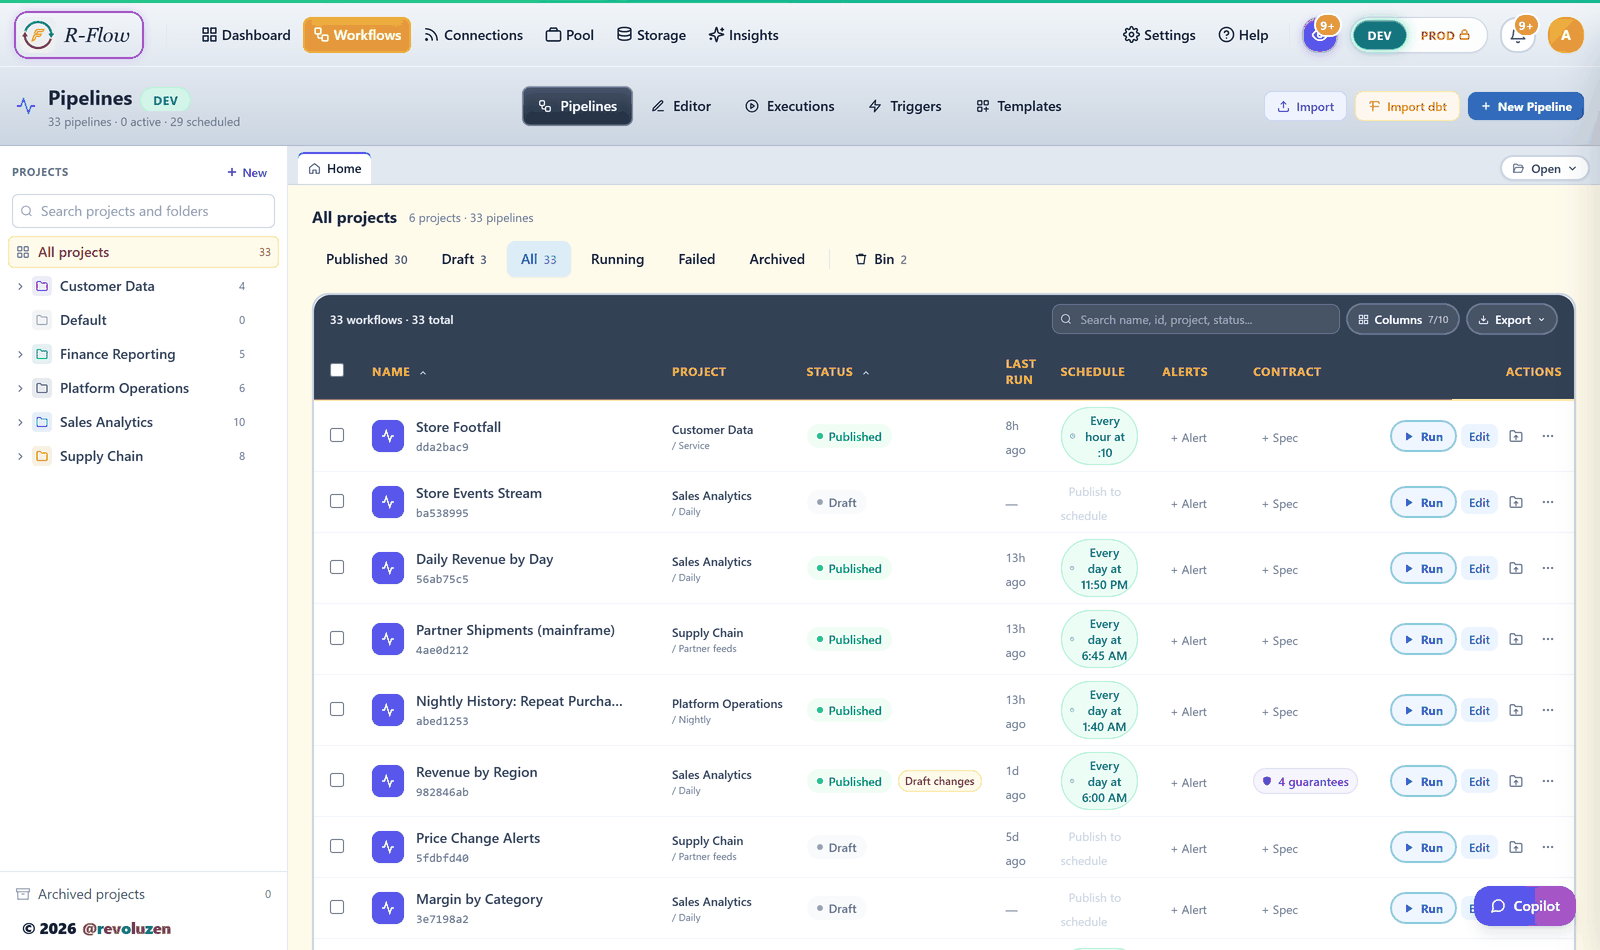
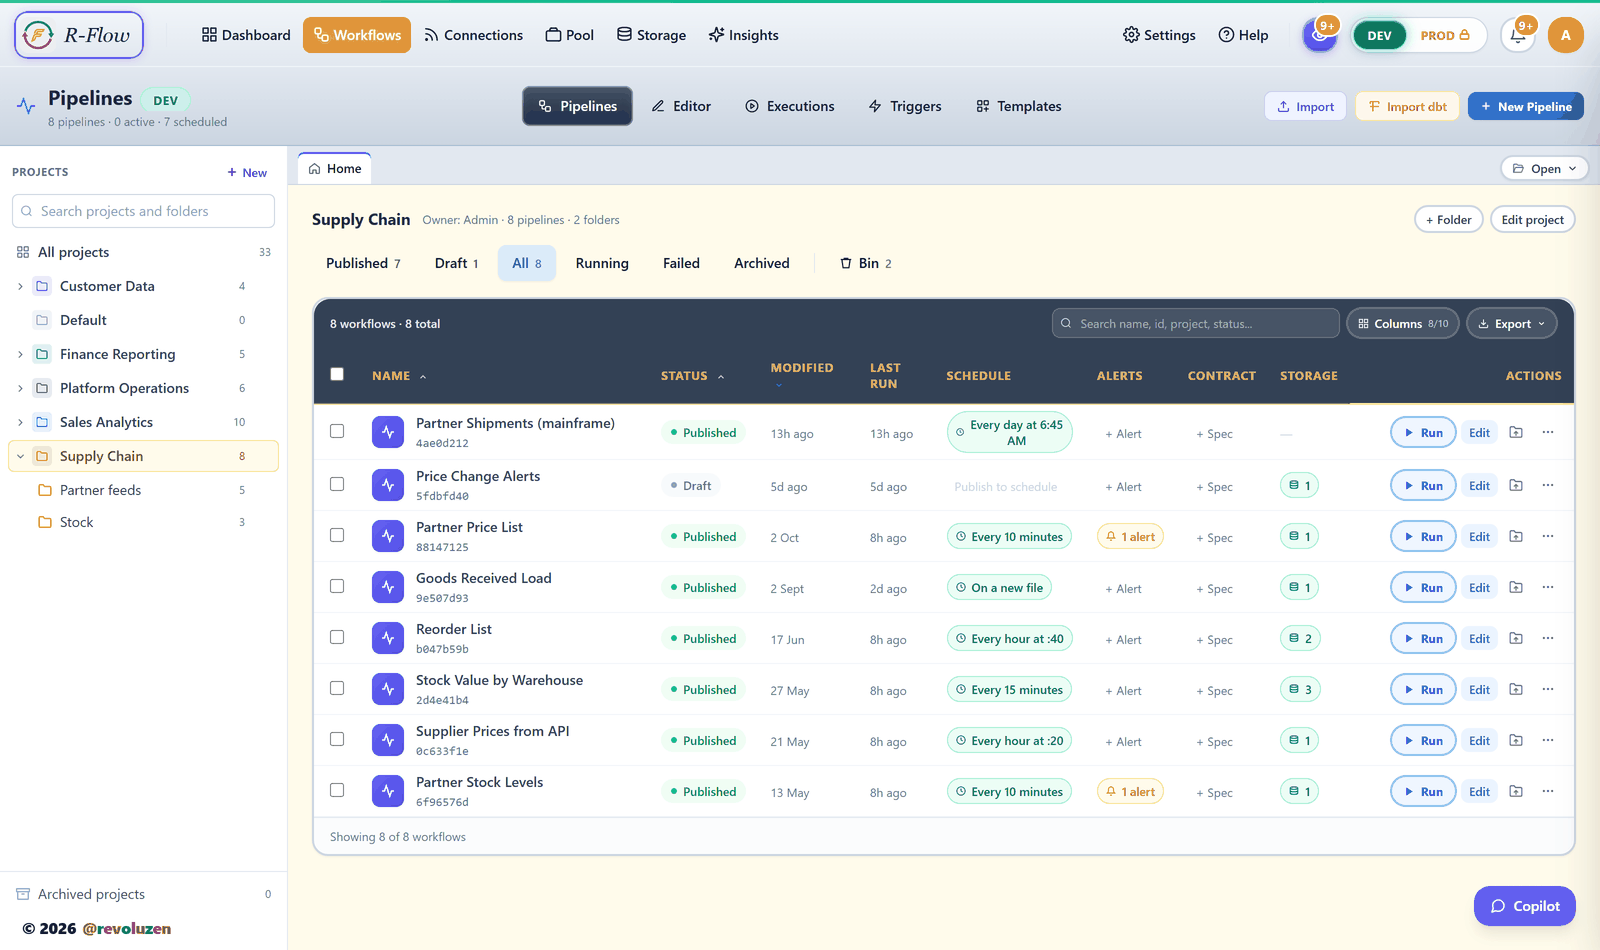
Show the Pipelines page once in the README
The Pipelines and the Projects and folders shots were the same page, one with all projects and one with Supply Chain selected. Keep the Supply Chain view, which also shows folders, the owner, a file-arrival schedule and the tables each pipeline writes, under one caption.

diff --git a/README.md b/README.md
@@ -285,16 +285,12 @@ have an EV certificate and Apple notarization.
 
 ## What it looks like
 
-**Pipelines** — status, schedule, alerts, contracts and last run, with your
-projects in a panel beside the list.
+**Pipelines, projects and folders** — status, schedule, alerts, contracts and
+last run for every pipeline, with your projects and their folders in a panel
+beside the list. Pick a project to see only its pipelines and its owner, and
+add a folder or edit the project from the same place.
 
-<img src="docs/assets/screenshot-pipelines.png" alt="The Pipelines page with the projects panel on the left listing six projects and their pipeline counts, and the list of all 33 pipelines on the right, published and draft, with project and folder, last run, schedules from hourly to daily, alert and contract columns with one four-guarantee contract, and Run and Edit on every row" width="100%">
-
-**Projects and folders** — pick a project in the panel to see only its
-pipelines, its owner and its folders, and add a folder or edit the project
-from the same place.
-
-<img src="docs/assets/screenshot-projects.png" alt="The Pipelines page with the Supply Chain project selected in the projects panel and opened to its two folders, Partner feeds and Stock, showing its owner and eight pipelines with their schedules — every ten minutes, hourly, daily, and one that starts when a new file arrives — two with an alert, and the managed tables each one writes" width="100%">
+<img src="docs/assets/screenshot-pipelines.png" alt="The Pipelines page with the projects panel on the left and the Supply Chain project selected and opened to its two folders, Partner feeds and Stock; on the right its owner and eight pipelines, published and draft, with schedules every ten minutes, hourly, daily and one that starts when a new file arrives, two with an alert, and the managed tables each one writes" width="100%">
 
 **Connections** — one open framework across databases, warehouses, object
 stores, streams and SaaS APIs, each with its own health state.
